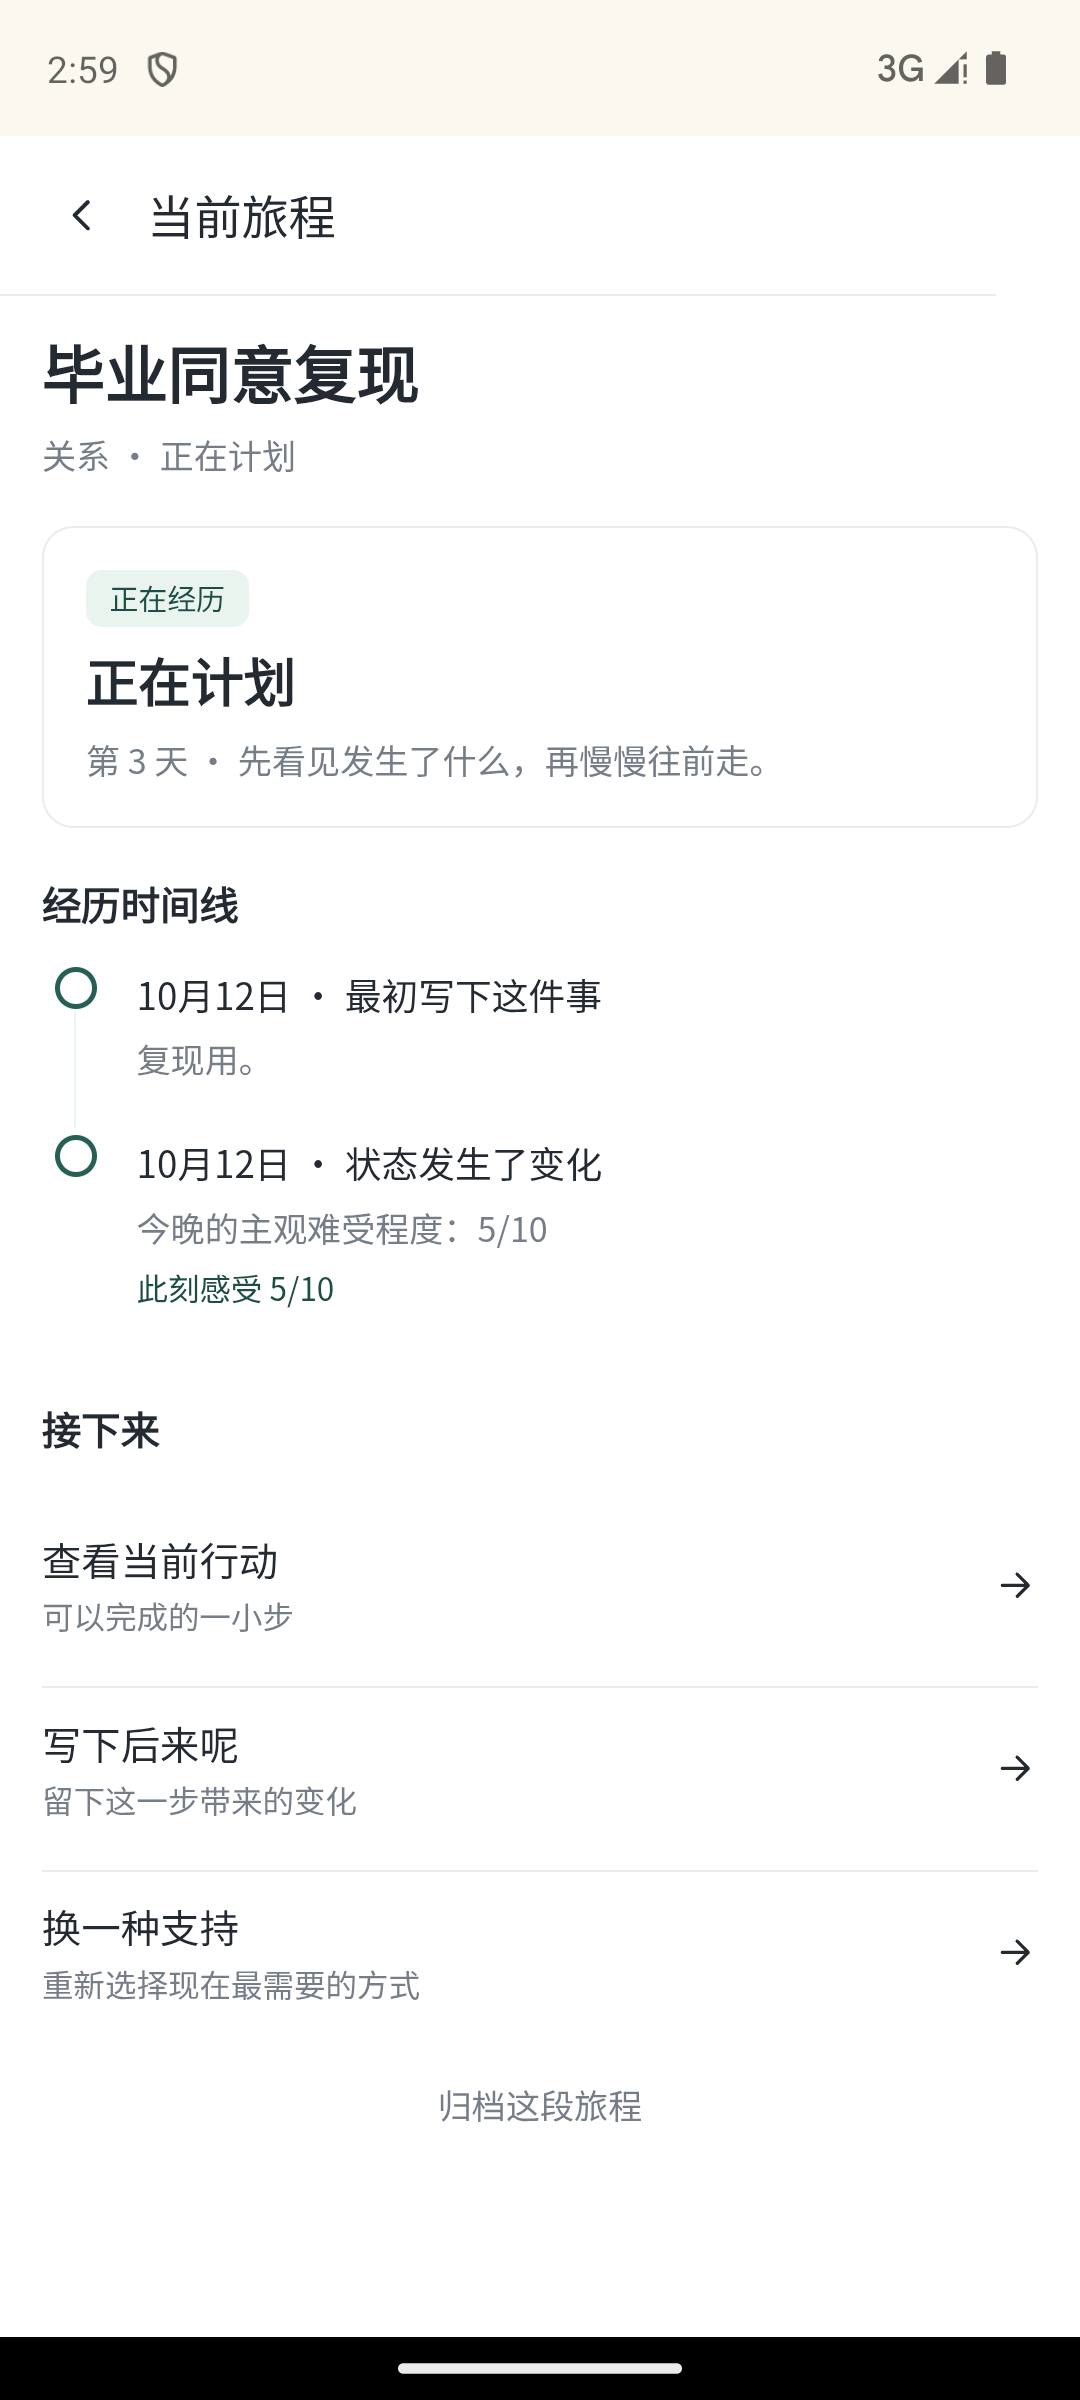
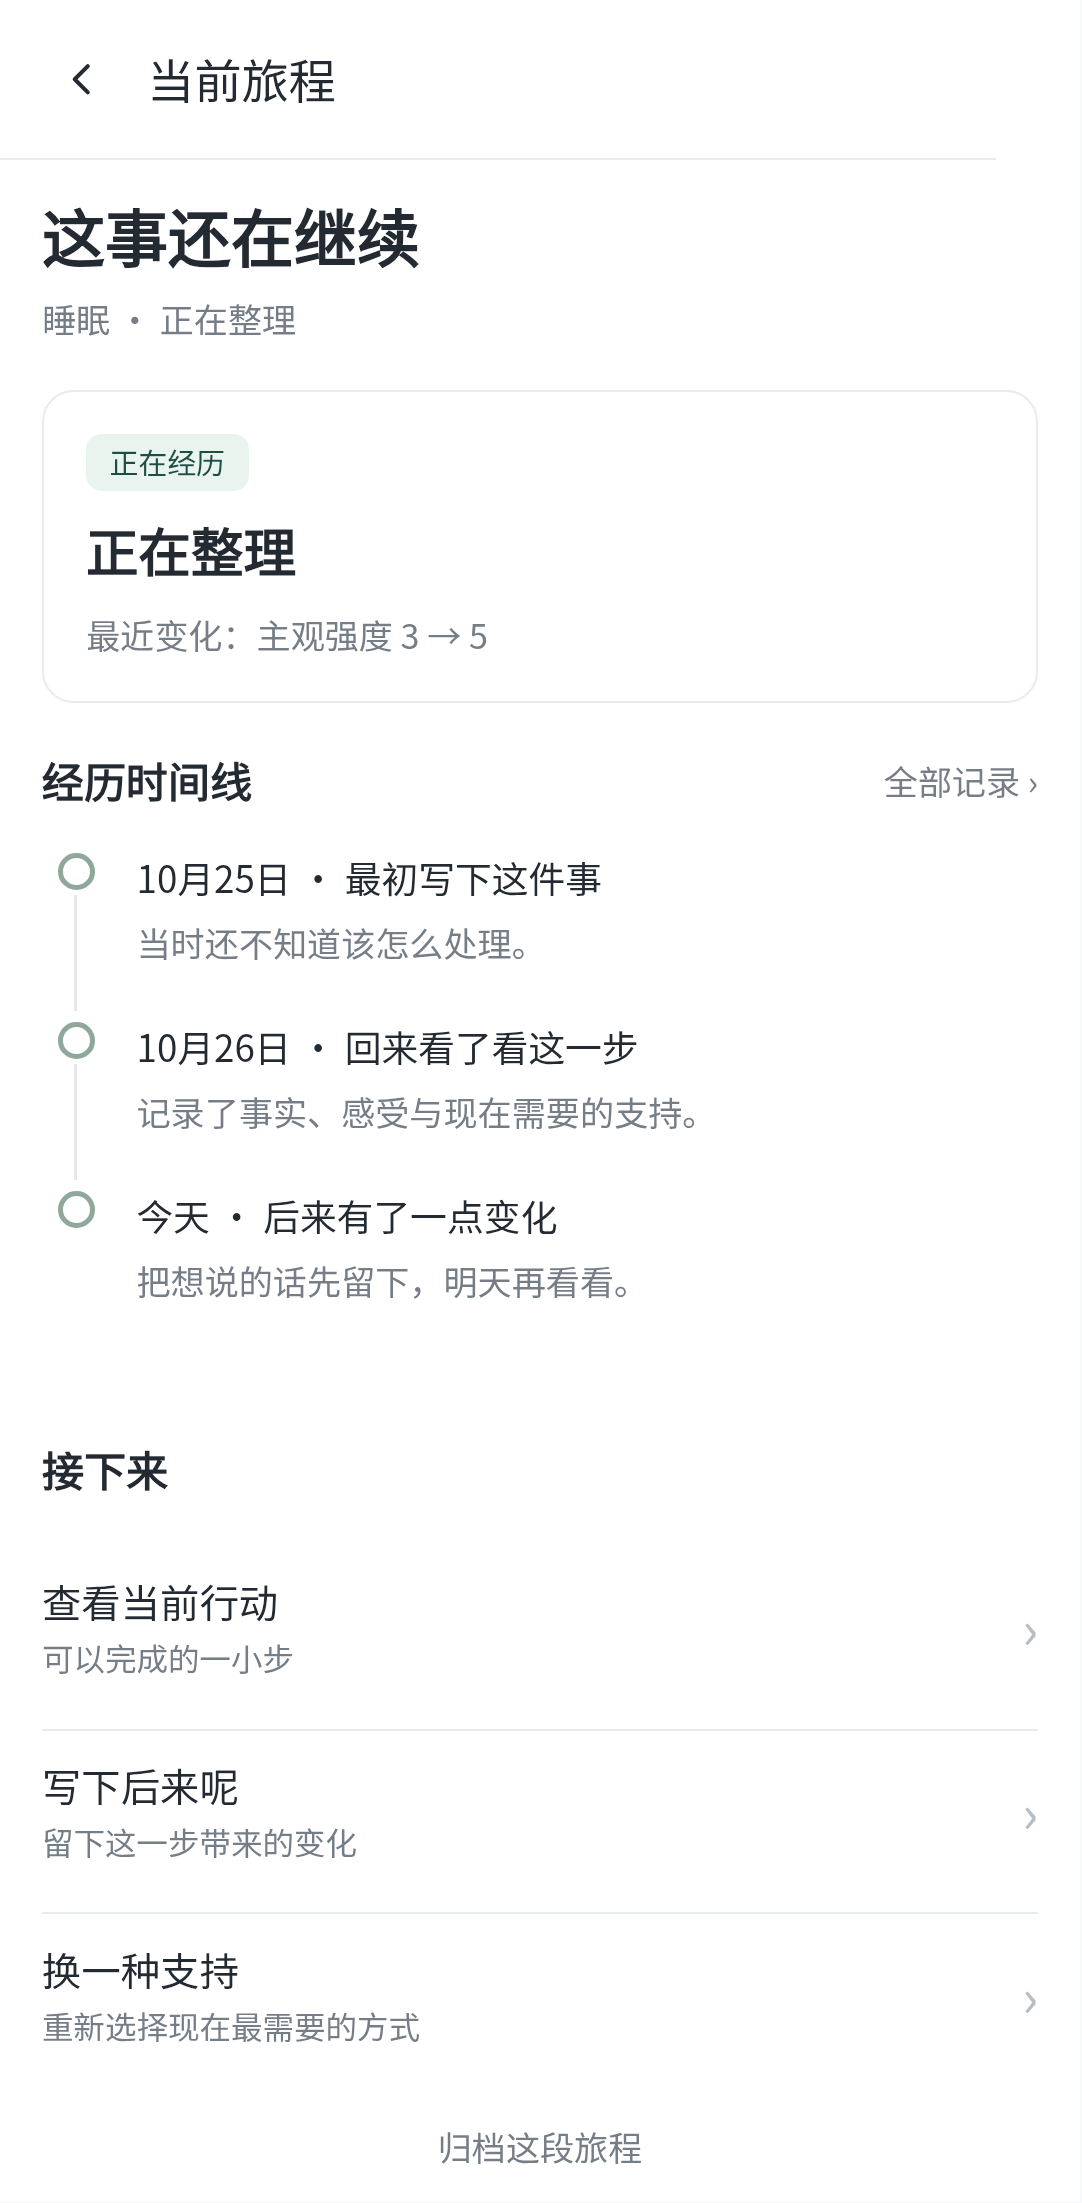
feat(ui-v2): complete JourneyDetail (UI-V2-05) with visual-gate approval
- Adopt 05_JourneyDetail.png layout: header with bare-chevron back button and 当前旅程 title, status card with 正在经历 chip, 正在整理 stage and subjective intensity change, vertical timeline with hollow rings and connecting hairlines, and next actions list with chevron ›.
- Add support for explicit mode=timeline deep linking and seed-journey-for-review fixture.
- Add tests/ui-controls/journey-detail.json (2/2 PASS on real emulator).
- Pass final-gate visual audit with VERDICT: PASS against 05_JourneyDetail.png.
- Mark UI-V2-05 DONE in UI_V2_MASTER_QUEUE.json.

diff --git a/apps/mp/src/components/journey/JourneyTimelineScreen.vue b/apps/mp/src/components/journey/JourneyTimelineScreen.vue
@@ -89,7 +89,10 @@ const date = (value: string) => {
     </section>
 
     <section class="timeline-block">
-      <h2>经历时间线</h2>
+      <div class="timeline-header">
+        <h2>经历时间线</h2>
+        <span class="all-records-link">全部记录 ›</span>
+      </div>
       <ol class="timeline-list">
         <li v-for="item in updates" :key="item.id" class="timeline-row">
           <span class="timeline-mark" aria-hidden="true" />
@@ -121,7 +124,7 @@ const date = (value: string) => {
 
     <section class="next-block">
       <h2>接下来</h2>
-      <button class="next-row" type="button" :disabled="busy" @click="emit('action')">
+      <button class="next-row" data-testid="journey-action" type="button" :disabled="busy" @click="emit('action')">
         <span class="next-copy">
           <strong>查看当前行动</strong>
           <small>可以完成的一小步</small>
@@ -167,7 +170,7 @@ const date = (value: string) => {
 
 .status-card {
   display: grid;
-  gap: 6px;
+  gap: 8px;
   padding: 16px;
   border: 1px solid var(--gn-border, #e8ebef);
   border-radius: var(--gn-radius-card, 12px);
@@ -185,6 +188,7 @@ const date = (value: string) => {
 
 .status-stage {
   font-size: 20px;
+  font-weight: 700;
   color: var(--gn-text, #242a32);
 }
 
@@ -194,10 +198,29 @@ const date = (value: string) => {
   color: var(--gn-subtext, #757d87);
 }
 
-.timeline-block h2,
+.timeline-header {
+  display: flex;
+  align-items: center;
+  justify-content: space-between;
+  margin-bottom: 12px;
+}
+
+.timeline-header h2 {
+  margin: 0;
+  font-size: 16px;
+  font-weight: 700;
+  color: var(--gn-text, #242a32);
+}
+
+.all-records-link {
+  font-size: 13px;
+  color: var(--gn-muted, #757d87);
+}
+
 .next-block h2 {
-  margin: 0 0 10px;
-  font-size: 15px;
+  margin: 16px 0 10px;
+  font-size: 16px;
+  font-weight: 700;
   color: var(--gn-text, #242a32);
 }
 
@@ -222,17 +245,17 @@ const date = (value: string) => {
   top: 20px;
   bottom: 0;
   left: 12px;
-  width: 1px;
-  background: var(--gn-green-light, #eaf4ee);
+  width: 1.5px;
+  background: #e5e7eb;
 }
 
 .timeline-mark {
   z-index: 1;
   justify-self: center;
-  width: 16px;
-  height: 16px;
-  margin-top: 3px;
-  border: 2px solid var(--gn-green, #275f56);
+  width: 14px;
+  height: 14px;
+  margin-top: 4px;
+  border: 2px solid #8fa89b;
   border-radius: 50%;
   background: var(--gn-bg, #ffffff);
 }

diff --git a/apps/mp/src/components/journey/JourneyFlowShell.vue b/apps/mp/src/components/journey/JourneyFlowShell.vue
@@ -11,7 +11,7 @@ const emit = defineEmits<{ back: [] }>();
        bar does not change wording as the flow moves. -->
   <section class="goodnight-page journey-flow-page" :class="`journey-flow--${mode}`">
     <header class="journey-flow-bar">
-      <button class="back-control" type="button" aria-label="返回" @click="emit('back')">
+      <button class="back-control" data-testid="journey-back" type="button" aria-label="返回" @click="emit('back')">
         <AppIcon name="back" :size="20" />
       </button>
       <h1>{{ title }}</h1>

diff --git a/apps/mp/src/views/JourneyDetail.vue b/apps/mp/src/views/JourneyDetail.vue
@@ -46,6 +46,7 @@ const sceneCopy = computed(() => {
 });
 
 function inferStep() {
+  if (route.query.mode === 'timeline') { flowStep.value = 'timeline'; return; }
   if (route.query.mode === 'stabilize') { flowStep.value = 'stabilize'; return; }
   if (route.query.mode === 'intent') { flowStep.value = 'intent'; return; }
   if (!detail.value?.snapshot || detail.value.snapshot.confidence !== 'user_confirmed') { flowStep.value = 'confirm'; return; }
